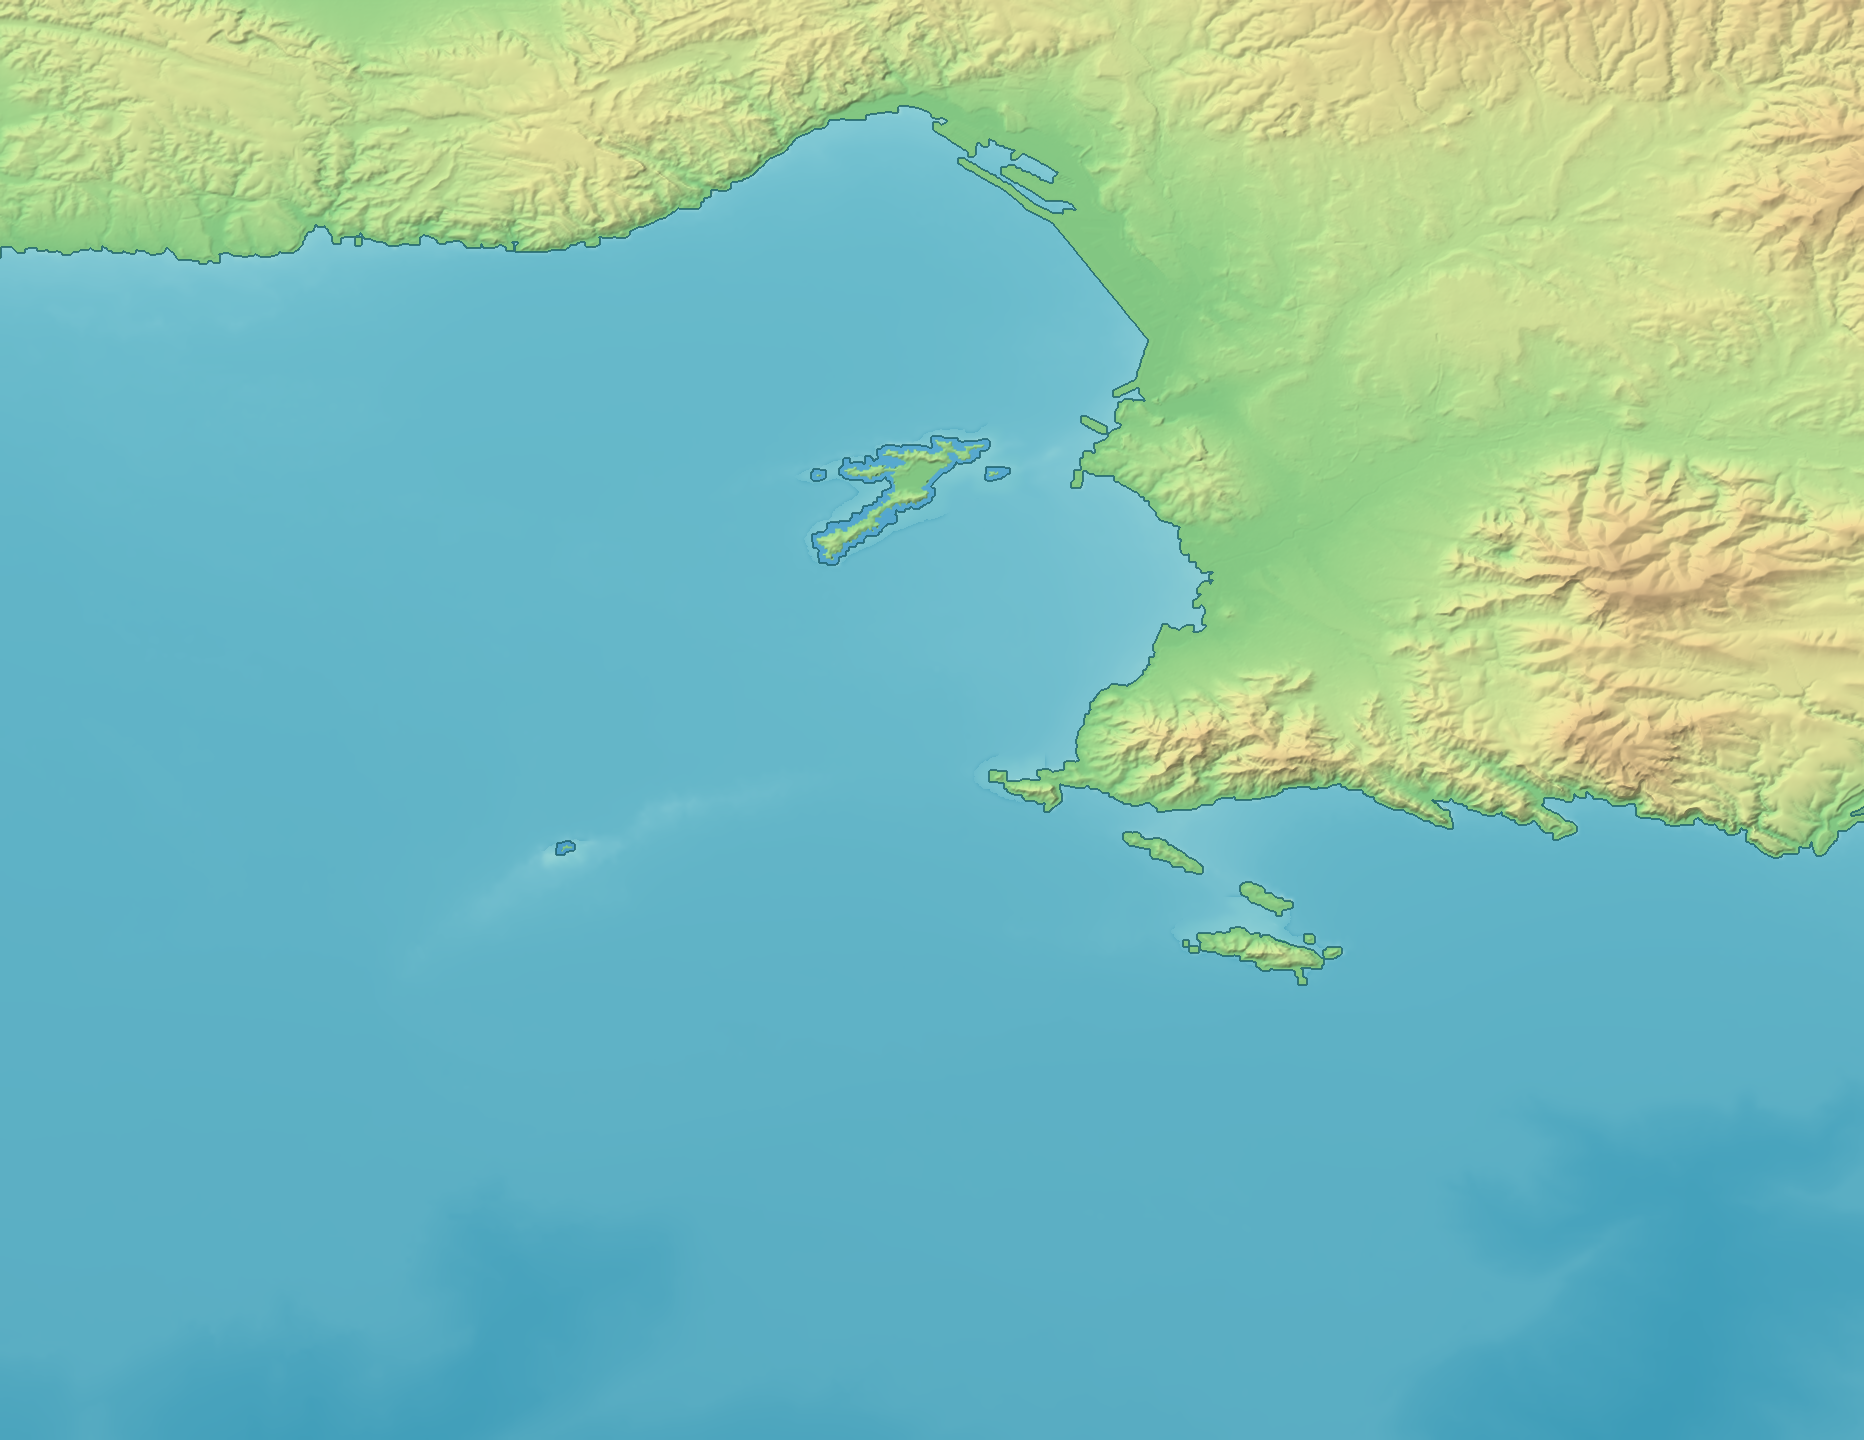
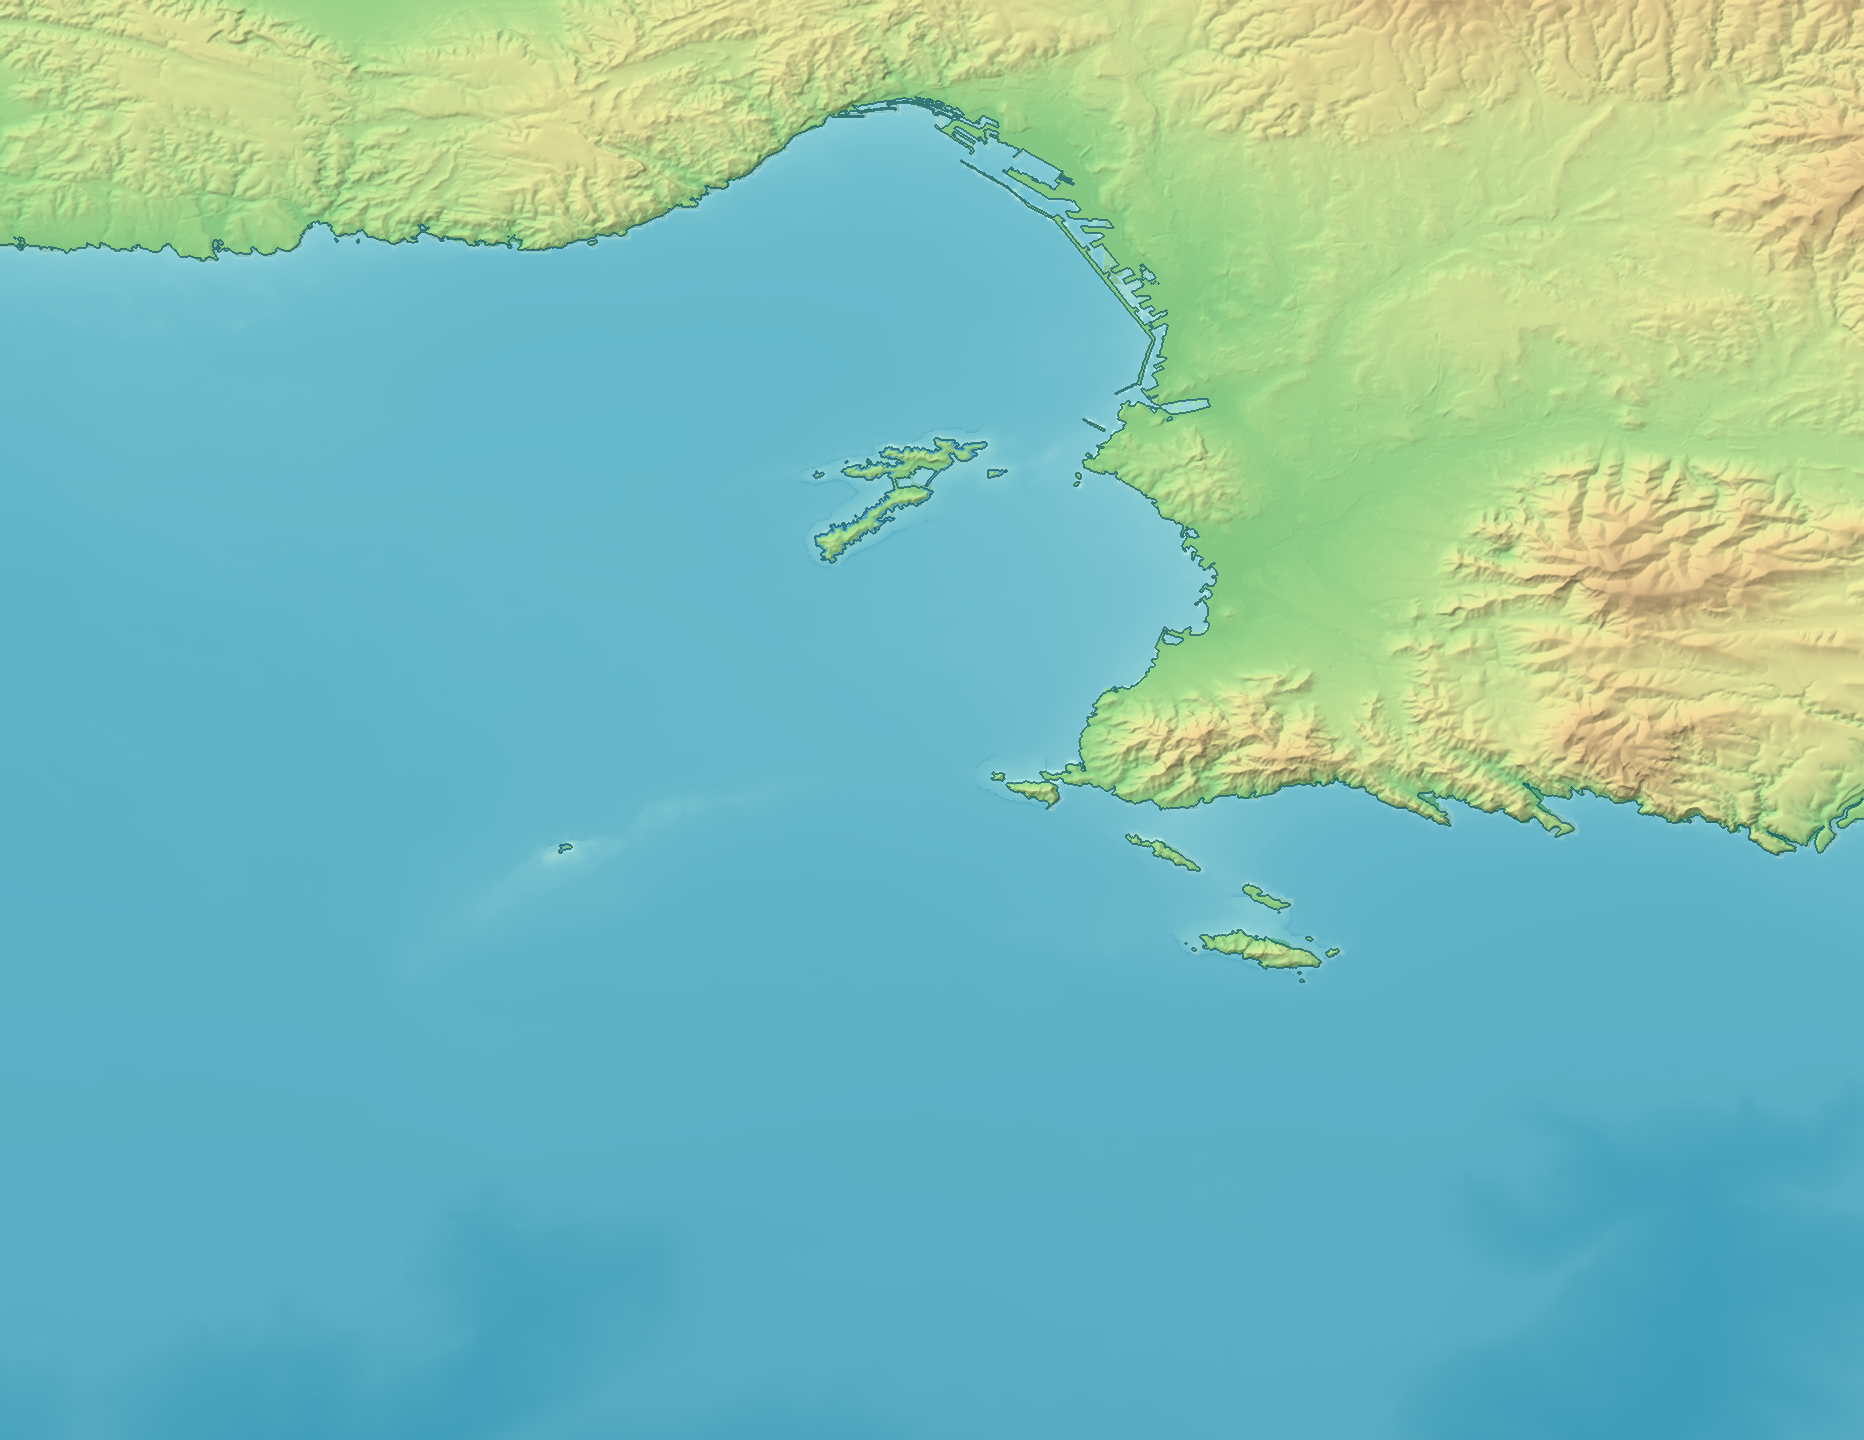
Regenerate Bouches-du-Rhone regional map

diff --git a/regions/bouches-du-rhone/WORKFLOW.md b/regions/bouches-du-rhone/WORKFLOW.md
@@ -95,15 +95,21 @@ deux copies canoniques sont identiques :
 - dimensions : `1864 × 1440 px` ;
 - bornes WGS84 : `5.10386667, 43.07038317, 5.51986667, 43.38238317` ;
 - SHA-256 :
[2 lines of base64/hex data omitted]
 - sortie régionale :
   `regions/bouches-du-rhone/outputs/bouches-du-rhone-regional-relief.png` ;
 - dérivé Web :
   `apps/web/public/maps/bouches-du-rhone/bouches-du-rhone-regional-relief.png`.
 
+Le masque terre-mer final rasterise les polygones terrestres officiels Shom–IGN
+Limite terre-mer, sans reconstruire la topologie depuis les entités linéaires.
 L'inspection pleine résolution confirme une emprise cohérente couvrant
 Marseille, Frioul, Planier, Maïre, Riou et les Calanques, un trait de côte
-continu et un relief terrestre lisible. Les positions projetées dans le cadre
+continu et un relief terrestre lisible. Les bassins portuaires et la rade
+restent ouverts ; les îles et îlots ne présentent ni fermeture anguleuse ni
+fragmentation en blocs. Par rapport au rendu précédemment validé, 52 470 pixels
+sur 2 684 160 diffèrent (`1,9548 %`), avec un delta absolu moyen de `0,831907`
+par canal et un delta maximal de `131`. Les positions projetées dans le cadre
 sont :
 
 | Site | Longitude | Latitude | Position dans la carte |
